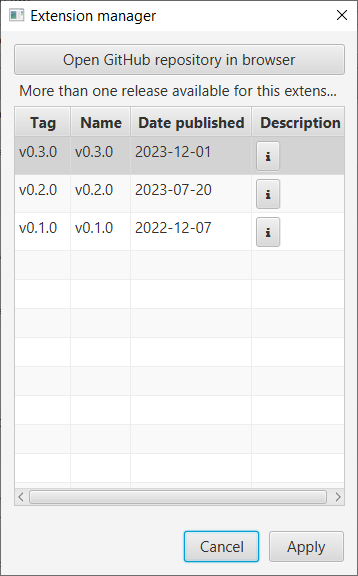
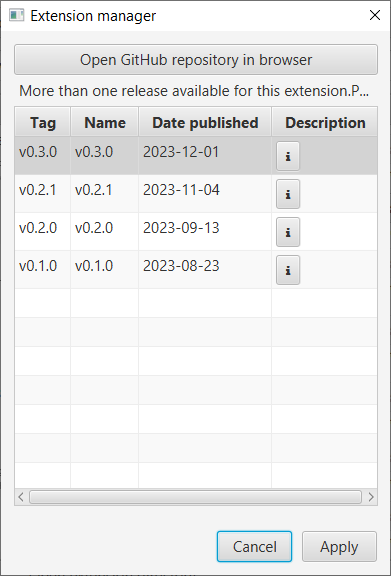
hide instanseg and update extension manager images

diff --git a/docs/intro/extensions.md b/docs/intro/extensions.md
@@ -18,7 +18,7 @@ We don't yet have a central list for extensions.
 The main places to find out about them are:
 
 * These docs --- some examples include:
-  * [Instanseg](instaseg-extension)
+  <!-- * [Instanseg](instanseg-extension) -->
   * [StarDist](stardist-extension)
   * [WSInfer](wsinfer-extension)
   * [OMERO](omero-extension)
@@ -47,7 +47,7 @@ from your web browser onto QuPath's main window.
 A prompt should appear asking if you want to proceed, and if you do, QuPath will download the extension and install it for you, including some necessary configuration along the way.
 
 Alternatively, if you know the owner and name of the GitHub repository housing an extension, you can enter these in the extension manager and click the download button.
-Again, QuPath will ask if you wish to download and install the extension.
+Again, QuPath will ask if you wish to download and install the extension and present you with the versions currently available for that extension.
 
 If you don't have a user directory, QuPath will prompt you to select a folder on your computer to use.
 You can change it later under {menuselection}`Edit --> Preferences...` if you want to.
@@ -58,7 +58,13 @@ You can change it later under {menuselection}`Edit --> Preferences...` if you wa
 Installing the Deep Java Library extension using the extension manager
 :::
 
-If neither of these options work, you can try downloading the extension manually.
+:::{figure} images/extension_manager_installing_version.png
+:class: shadow-image mini-image
+
+An example of extension version options for WSInfer
+:::
+
+If both of these extension installation options dont work, you can try downloading the extension manually.
 The extension itself is a (usually small) file with that ends with `.jar`, often available from the `Releases` section of the GitHub repository.
 If you drag this onto QuPath's main window, QuPath should copy it to your QuPath user directory.
 

diff --git a/docs/deep/index.md b/docs/deep/index.md
@@ -5,7 +5,7 @@
 
 djl
 bioimage
-instanseg
+<!-- instanseg -->
 stardist
 wsinfer
 gpu
